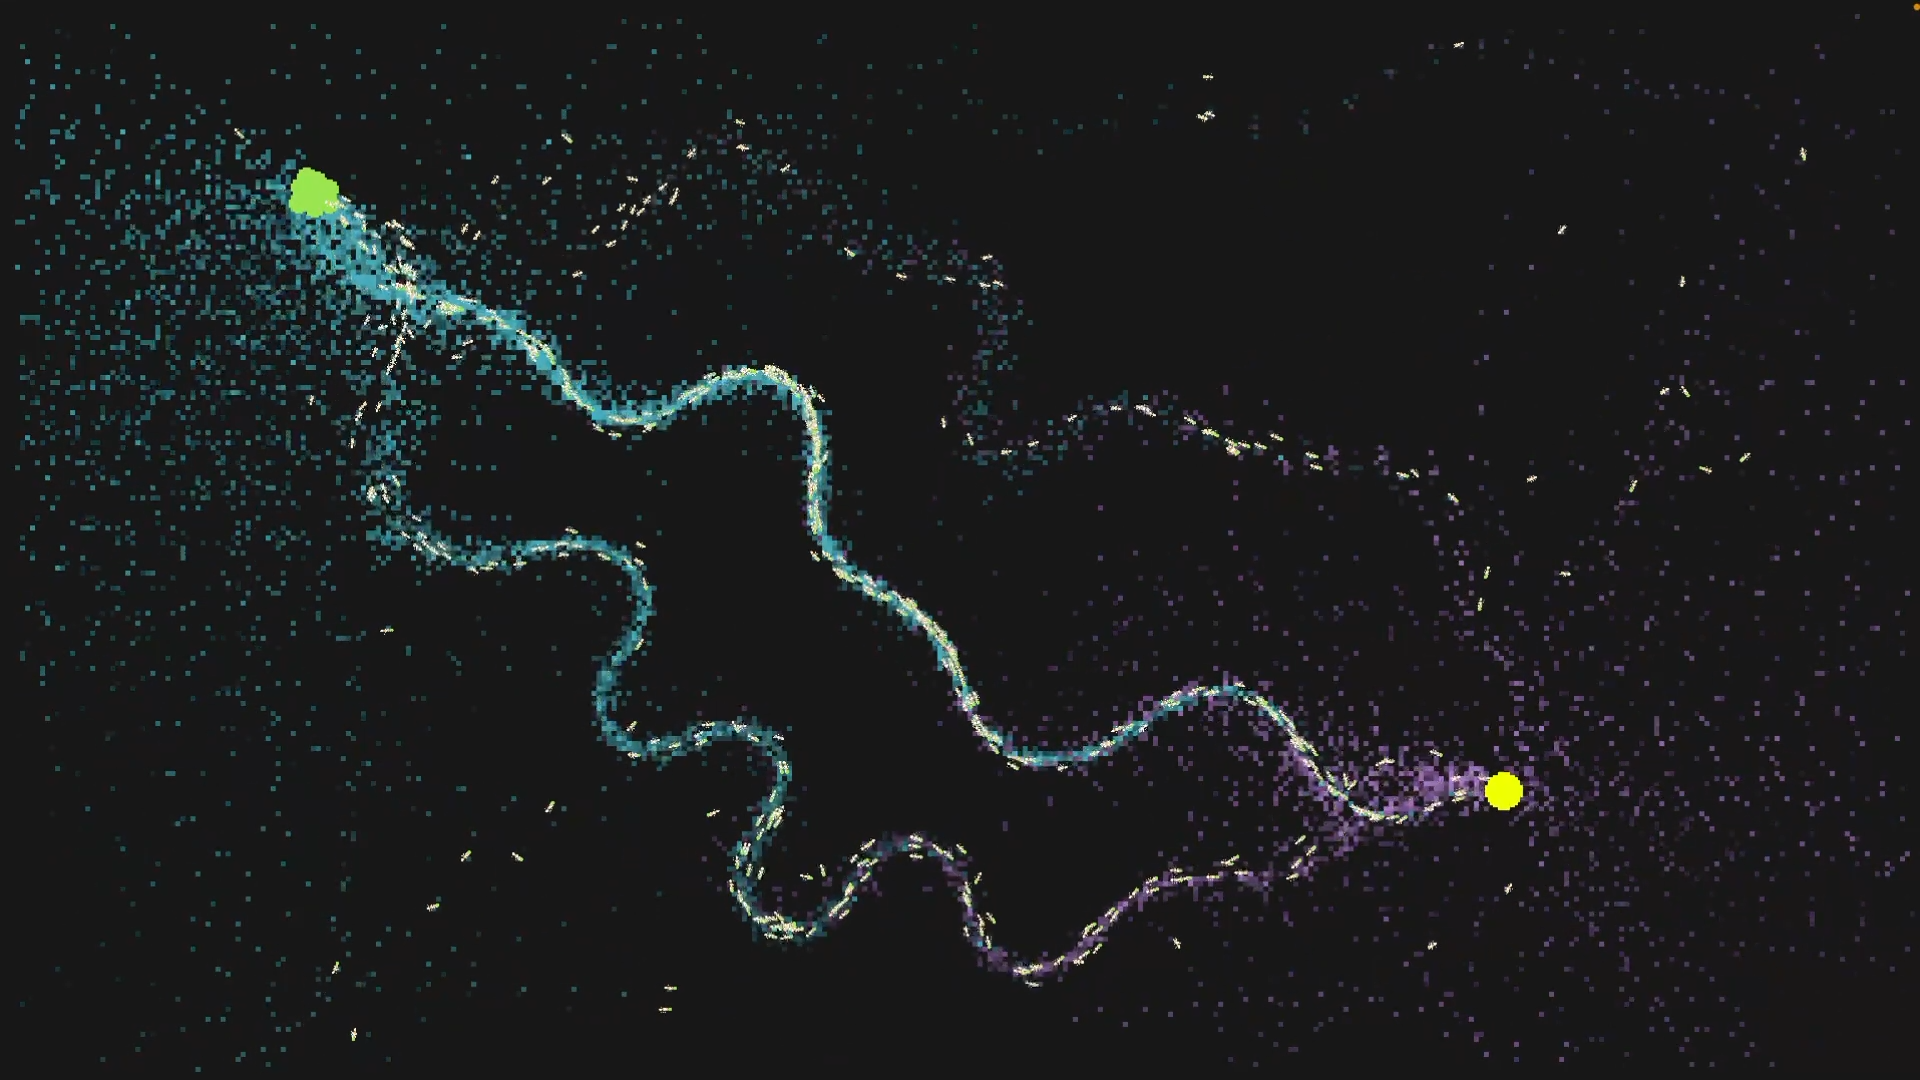
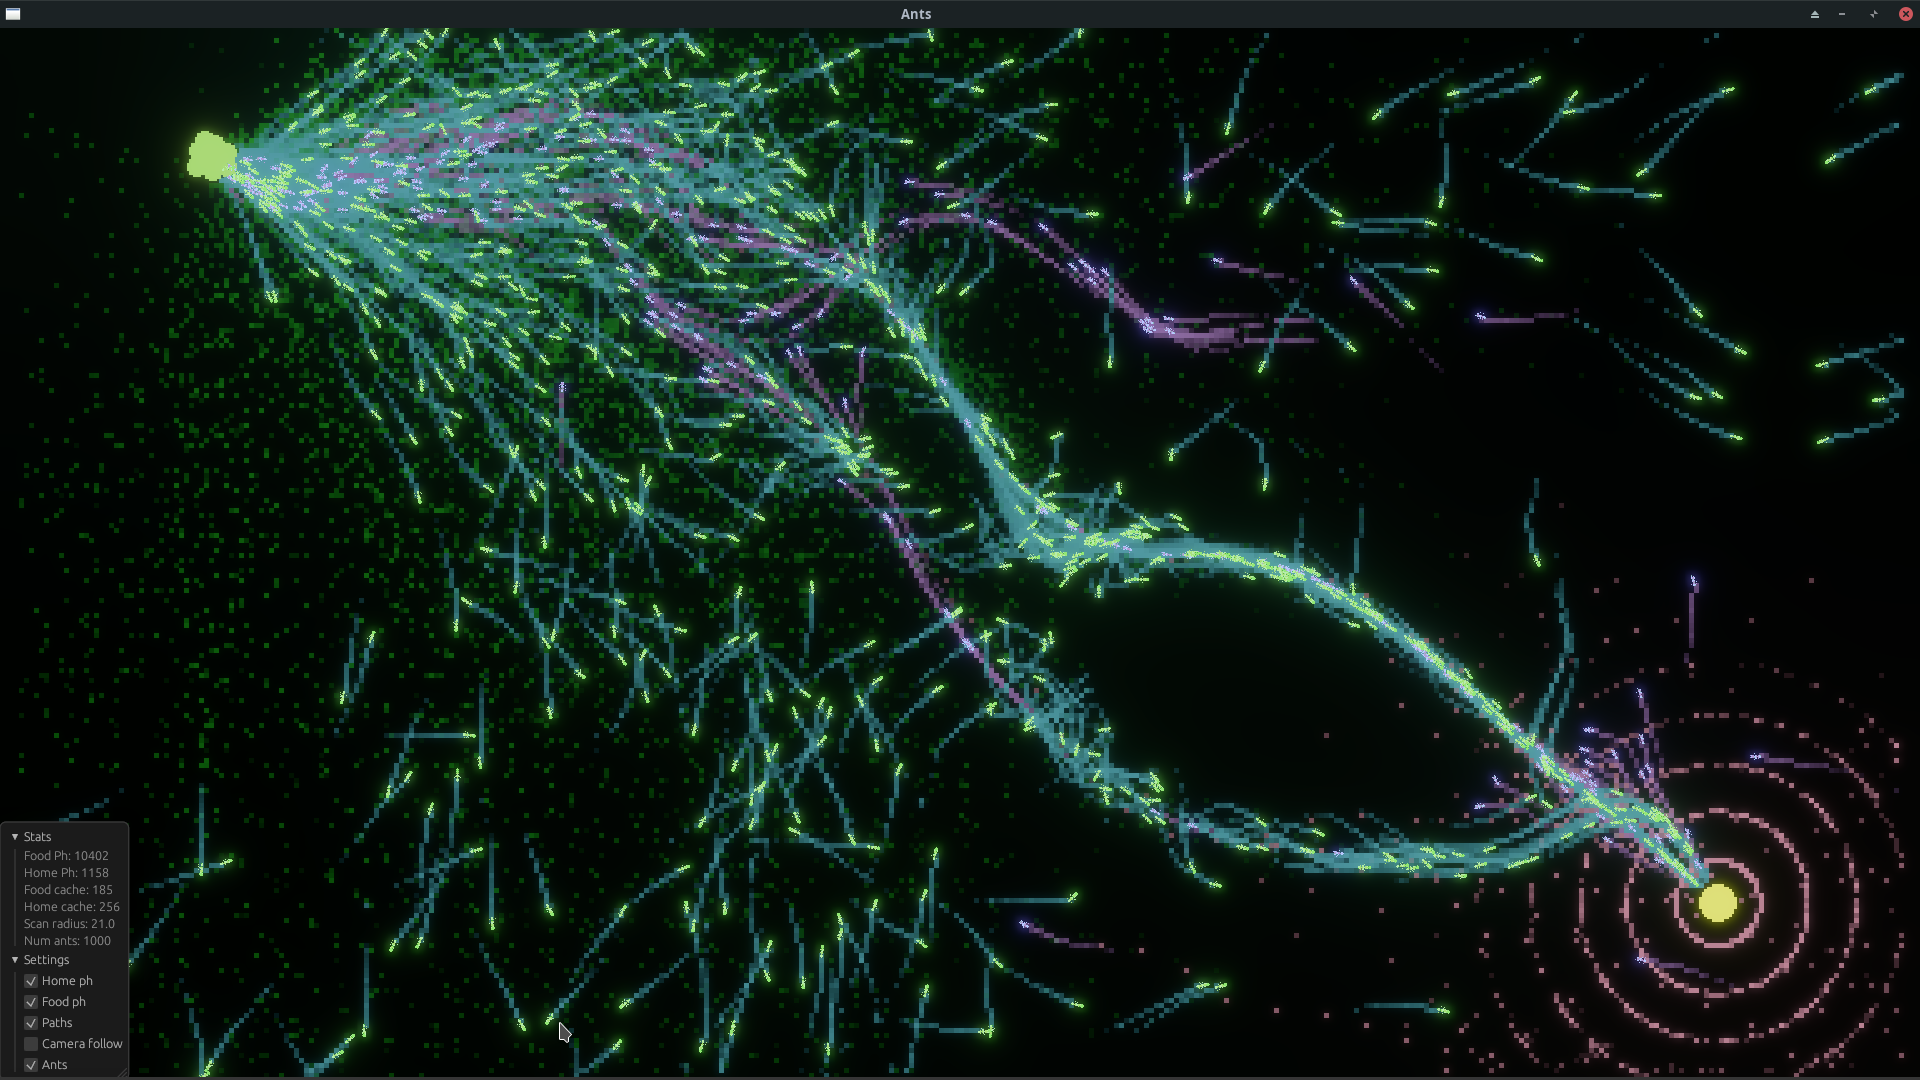
kd-tree and caching, capable of handling 5k ants. 10k with some lag

diff --git a/src/ant.rs b/src/ant.rs
@@ -84,6 +84,10 @@ fn setup(mut commands: Commands, asset_server: Res<AssetServer>) {
         commands.spawn((
             SpriteBundle {
                 texture: asset_server.load(SPRITE_ANT),
+                sprite: Sprite {
+                    color: Color::rgb(1.1, 1.1, 1.0),
+                    ..default()
+                },
                 transform: Transform::from_xyz(HOME_LOCATION.0, HOME_LOCATION.1, ANT_Z_INDEX)
                     .with_scale(Vec3::splat(ANT_SPRITE_SCALE)),
                 ..Default::default()
@@ -223,6 +227,7 @@ fn check_home_food_collisions(
     mut ant_query: Query<
         (
             &Transform,
+            &mut Sprite,
             &mut Velocity,
             &mut CurrentTask,
             &mut PhStrength,
@@ -232,7 +237,7 @@ fn check_home_food_collisions(
     >,
     asset_server: Res<AssetServer>,
 ) {
-    for (transform, mut velocity, mut ant_task, mut ph_strength, mut image_handle) in
+    for (transform, mut sprite, mut velocity, mut ant_task, mut ph_strength, mut image_handle) in
         ant_query.iter_mut()
     {
         // Home collision
@@ -251,6 +256,7 @@ fn check_home_food_collisions(
             ant_task.0 = AntTask::FindFood;
             ph_strength.0 = ANT_INITIAL_PH_STRENGTH;
             *image_handle = asset_server.load(SPRITE_ANT);
+            sprite.color = Color::rgb(1.0, 1.0, 2.5);
         }
 
         // Food Collision
@@ -268,6 +274,7 @@ fn check_home_food_collisions(
             ant_task.0 = AntTask::FindHome;
             ph_strength.0 = ANT_INITIAL_PH_STRENGTH;
             *image_handle = asset_server.load(SPRITE_ANT_WITH_FOOD);
+            sprite.color = Color::rgb(1.0, 2.0, 1.0);
         }
     }
 }
@@ -301,7 +308,8 @@ fn update_position(
 
         if !acceleration.0.is_nan() {
             velocity.0 = (velocity.0 + acceleration.0).normalize();
-            let new_translation = transform.translation + vec3(velocity.0.x, velocity.0.y, 0.0) * ANT_SPEED;
+            let new_translation =
+                transform.translation + vec3(velocity.0.x, velocity.0.y, 0.0) * ANT_SPEED;
             if !new_translation.is_nan() {
                 transform.translation = new_translation;
             }

diff --git a/src/main.rs b/src/main.rs
@@ -1,4 +1,5 @@
 use bevy::{
+    core_pipeline::{tonemapping::Tonemapping, bloom::BloomSettings},
     diagnostic::{FrameTimeDiagnosticsPlugin, LogDiagnosticsPlugin},
     math::vec3,
     prelude::*,
@@ -25,7 +26,7 @@ fn main() {
                 .set(WindowPlugin {
                     primary_window: Some(Window {
                         resizable: false,
-                        mode: WindowMode::Fullscreen,
+                        // mode: WindowMode::Fullscreen,
                         focused: true,
                         resolution: (W, H).into(),
                         title: "Ants".to_string(),
@@ -70,12 +71,27 @@ fn ant_follow_camera(
 
 fn setup(mut commands: Commands, asset_server: Res<AssetServer>) {
     commands
-        .spawn((Camera2dBundle::default(), FollowCamera))
+        .spawn((
+            Camera2dBundle {
+                camera: Camera {
+                    hdr: true,
+                    ..default()
+                },
+                tonemapping: Tonemapping::TonyMcMapface,
+                ..default()
+            },
+            BloomSettings::default(),
+            FollowCamera,
+        ))
         .insert(PanCam::default());
 
     // Ant colony sprite
     commands.spawn(SpriteBundle {
         texture: asset_server.load(SPRITE_ANT_COLONY),
+        sprite: Sprite {
+            color: Color::rgb(1.5, 1.5, 1.5),
+            ..default()
+        },
         transform: Transform::from_xyz(HOME_LOCATION.0, HOME_LOCATION.1, 2.0)
             .with_scale(Vec3::splat(HOME_SPRITE_SCALE)),
         ..Default::default()
@@ -84,6 +100,10 @@ fn setup(mut commands: Commands, asset_server: Res<AssetServer>) {
     // Food sprite
     commands.spawn(SpriteBundle {
         texture: asset_server.load(SPRITE_FOOD),
+        sprite: Sprite {
+            color: Color::rgb(1.5, 1.5, 1.5),
+            ..default()
+        },
         transform: Transform::from_xyz(FOOD_LOCATION.0, FOOD_LOCATION.1, 2.0)
             .with_scale(Vec3::splat(FOOD_SPRITE_SCALE)),
         ..Default::default()

diff --git a/src/grid.rs b/src/grid.rs
@@ -85,17 +85,11 @@ impl WorldGrid {
     }
 
     fn get_ph_key(&self, x: i32, y: i32) -> (i32, i32) {
-        (
-            x / PH_UNIT_GRID_SIZE as i32,
-            y / PH_UNIT_GRID_SIZE as i32,
-        )
+        (x / PH_UNIT_GRID_SIZE as i32, y / PH_UNIT_GRID_SIZE as i32)
     }
 
     fn get_pos_from_ph(&self, x: i32, y: i32) -> (i32, i32) {
-        (
-            x * PH_UNIT_GRID_SIZE as i32,
-            y * PH_UNIT_GRID_SIZE as i32,
-        )
+        (x * PH_UNIT_GRID_SIZE as i32, y * PH_UNIT_GRID_SIZE as i32)
     }
 
     fn get_cache_grid_pos(&self, x: i32, y: i32) -> (i32, i32) {
@@ -144,7 +138,10 @@ impl WorldGrid {
 
 impl DecayGrid {
     pub fn new(values: HashMap<(i32, i32), f32>, max_allowed_value: f32) -> Self {
-        Self { values, max_allowed_value }
+        Self {
+            values,
+            max_allowed_value,
+        }
     }
 
     pub fn add_value(&mut self, key: &(i32, i32), value: f32, increment_value: f32) {
@@ -188,10 +185,7 @@ pub fn add_map_to_grid_img(
         let (mut x, mut y) = (k.0, k.1);
 
         if use_grid_pos {
-            (x, y) = (
-                x * PH_UNIT_GRID_SIZE as i32,
-                y * PH_UNIT_GRID_SIZE as i32,
-            );
+            (x, y) = (x * PH_UNIT_GRID_SIZE as i32, y * PH_UNIT_GRID_SIZE as i32);
             (x, y) = window_to_grid(x, y);
         }
 

diff --git a/src/utils.rs b/src/utils.rs
@@ -84,19 +84,14 @@ pub fn rotate_vector(vector: &Vec2, angle_deg: f32) -> Vec2 {
 pub fn window_to_grid(x: i32, y: i32) -> (i32, i32) {
     // Convert from center to top left co-ords
     let (tx, ty) = (x + (W as usize / 2) as i32, (H as usize / 2) as i32 - y);
-    let (tx, ty) = (
-        tx / PH_UNIT_GRID_SIZE as i32,
-        ty / PH_UNIT_GRID_SIZE as i32,
-    );
+    let (tx, ty) = (tx / PH_UNIT_GRID_SIZE as i32, ty / PH_UNIT_GRID_SIZE as i32);
 
     (tx, ty)
 }
 
 pub fn grid_to_window(tx: i32, ty: i32) -> (i32, i32) {
-    let x =
-        tx * PH_UNIT_GRID_SIZE as i32 + PH_UNIT_GRID_SIZE as i32 / 2 - (W as i32 / 2);
-    let y =
-        (H as i32 / 2) - ty * PH_UNIT_GRID_SIZE as i32 - PH_UNIT_GRID_SIZE as i32 / 2;
+    let x = tx * PH_UNIT_GRID_SIZE as i32 + PH_UNIT_GRID_SIZE as i32 / 2 - (W as i32 / 2);
+    let y = (H as i32 / 2) - ty * PH_UNIT_GRID_SIZE as i32 - PH_UNIT_GRID_SIZE as i32 / 2;
 
     (x, y)
 }

diff --git a/src/pheromone.rs b/src/pheromone.rs
@@ -49,8 +49,7 @@ impl Plugin for PheromonePlugin {
             )
             .add_systems(
                 Update,
-                pheromone_image_update
-                    .run_if(on_timer(Duration::from_secs_f32(PH_IMG_UPDATE_SEC))),
+                pheromone_image_update.run_if(on_timer(Duration::from_secs_f32(PH_IMG_UPDATE_SEC))),
             );
     }
 }

diff --git a/src/configs.rs b/src/configs.rs
@@ -3,7 +3,7 @@ pub const W: f32 = 1920.0;
 pub const H: f32 = 1080.0;
 // pub const W: f32 = 960.0;
 // pub const H: f32 = 800.0;
-pub const BG_COLOR: (u8, u8, u8) = (24, 24, 24);
+pub const BG_COLOR: (u8, u8, u8) = (0, 0, 0);
 
 // Ants
 pub const NUM_ANTS: u32 = 5000;

diff --git a/README.md b/README.md
@@ -1,5 +1,5 @@
 # Ant Colony Simulation
-This is an ant colony simulation, the implementation is pretty ineffecient for now and can only handle about 500 ants on my old laptop.
+This is an ant colony simulation, it internally uses kdtree and query caching, it's able to handle about 5k ants on the cpu.
 
 
 Built with [Rust](https://www.rust-lang.org/) and [Bevy](https://bevyengine.org/) game engine
